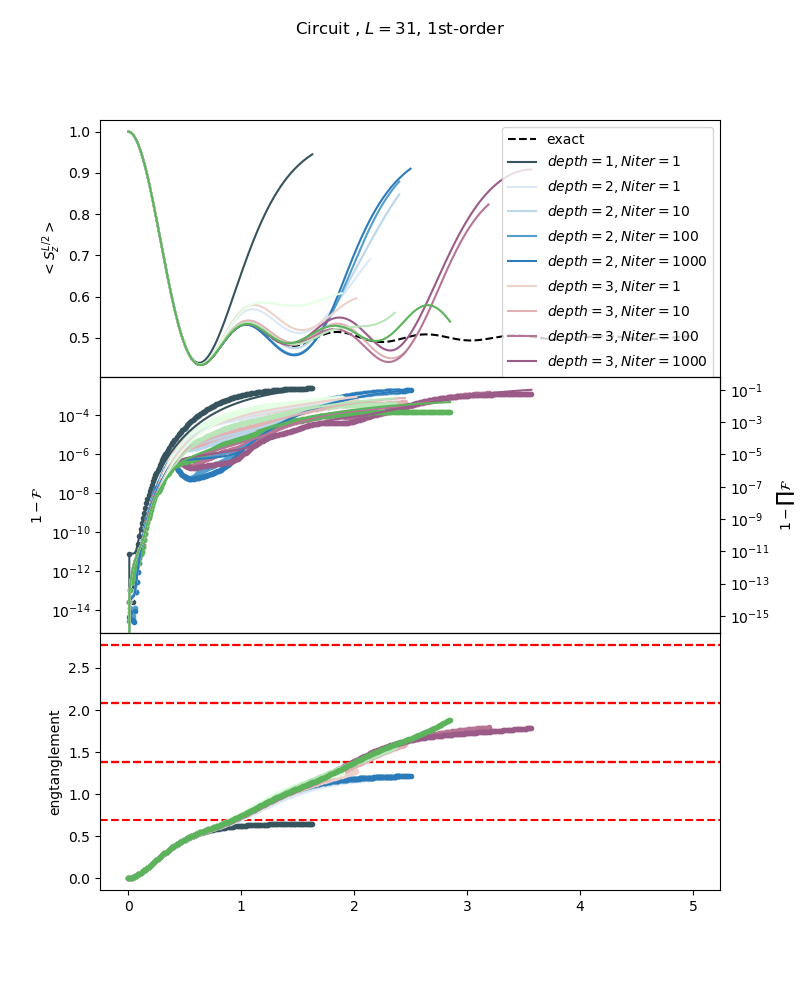
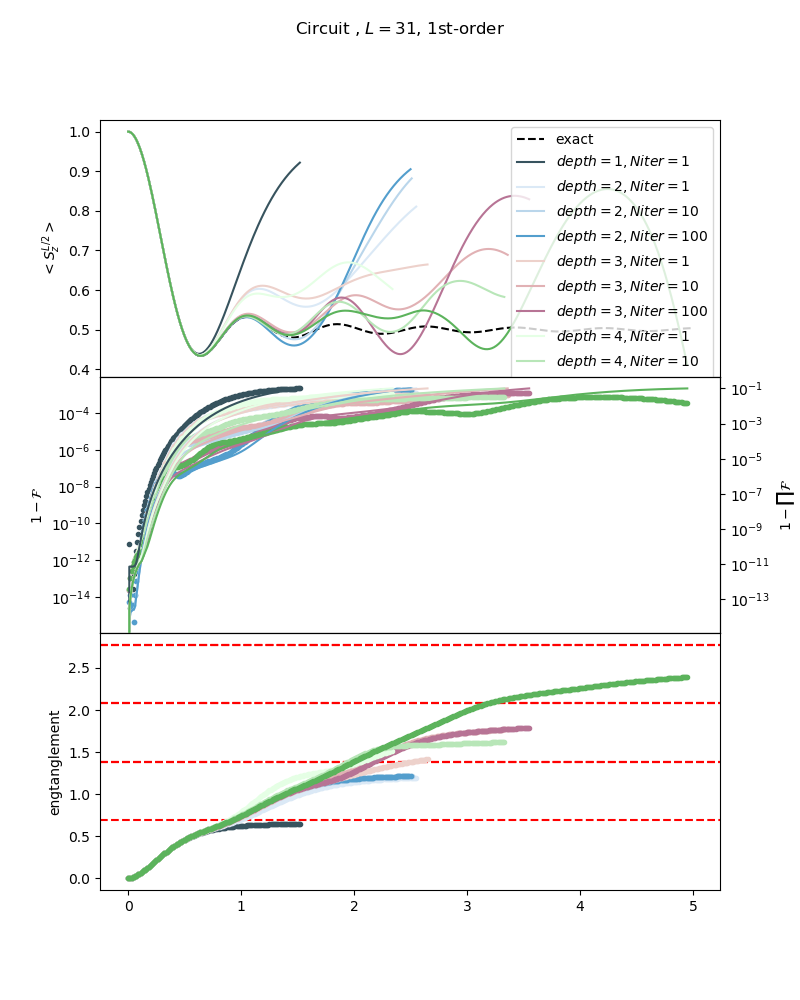
add plot

diff --git a/2_time_evolution/README.md b/2_time_evolution/README.md
@@ -22,6 +22,13 @@ MPS       |  Circuit
 ![](figure/time_evolv_TFI/circuit_L31_g1.0_1st_1iter.png)
 
 
+## fidelity
+![](figure/time_evolv_TFI/fidelity.png)
+## log of the error in fidelity
+![](figure/time_evolv_TFI/fidelity_log.png)
+
+
+
 ### Single-layer circuit
 
 Single-layer circuit should match with the result of qTEBD with MPS and DMRG with MPS of bond dimension 2. Indeed we see that. Optimization for single-layer circuit is benign and could be easily solved with one iteration/sweep per time step.
